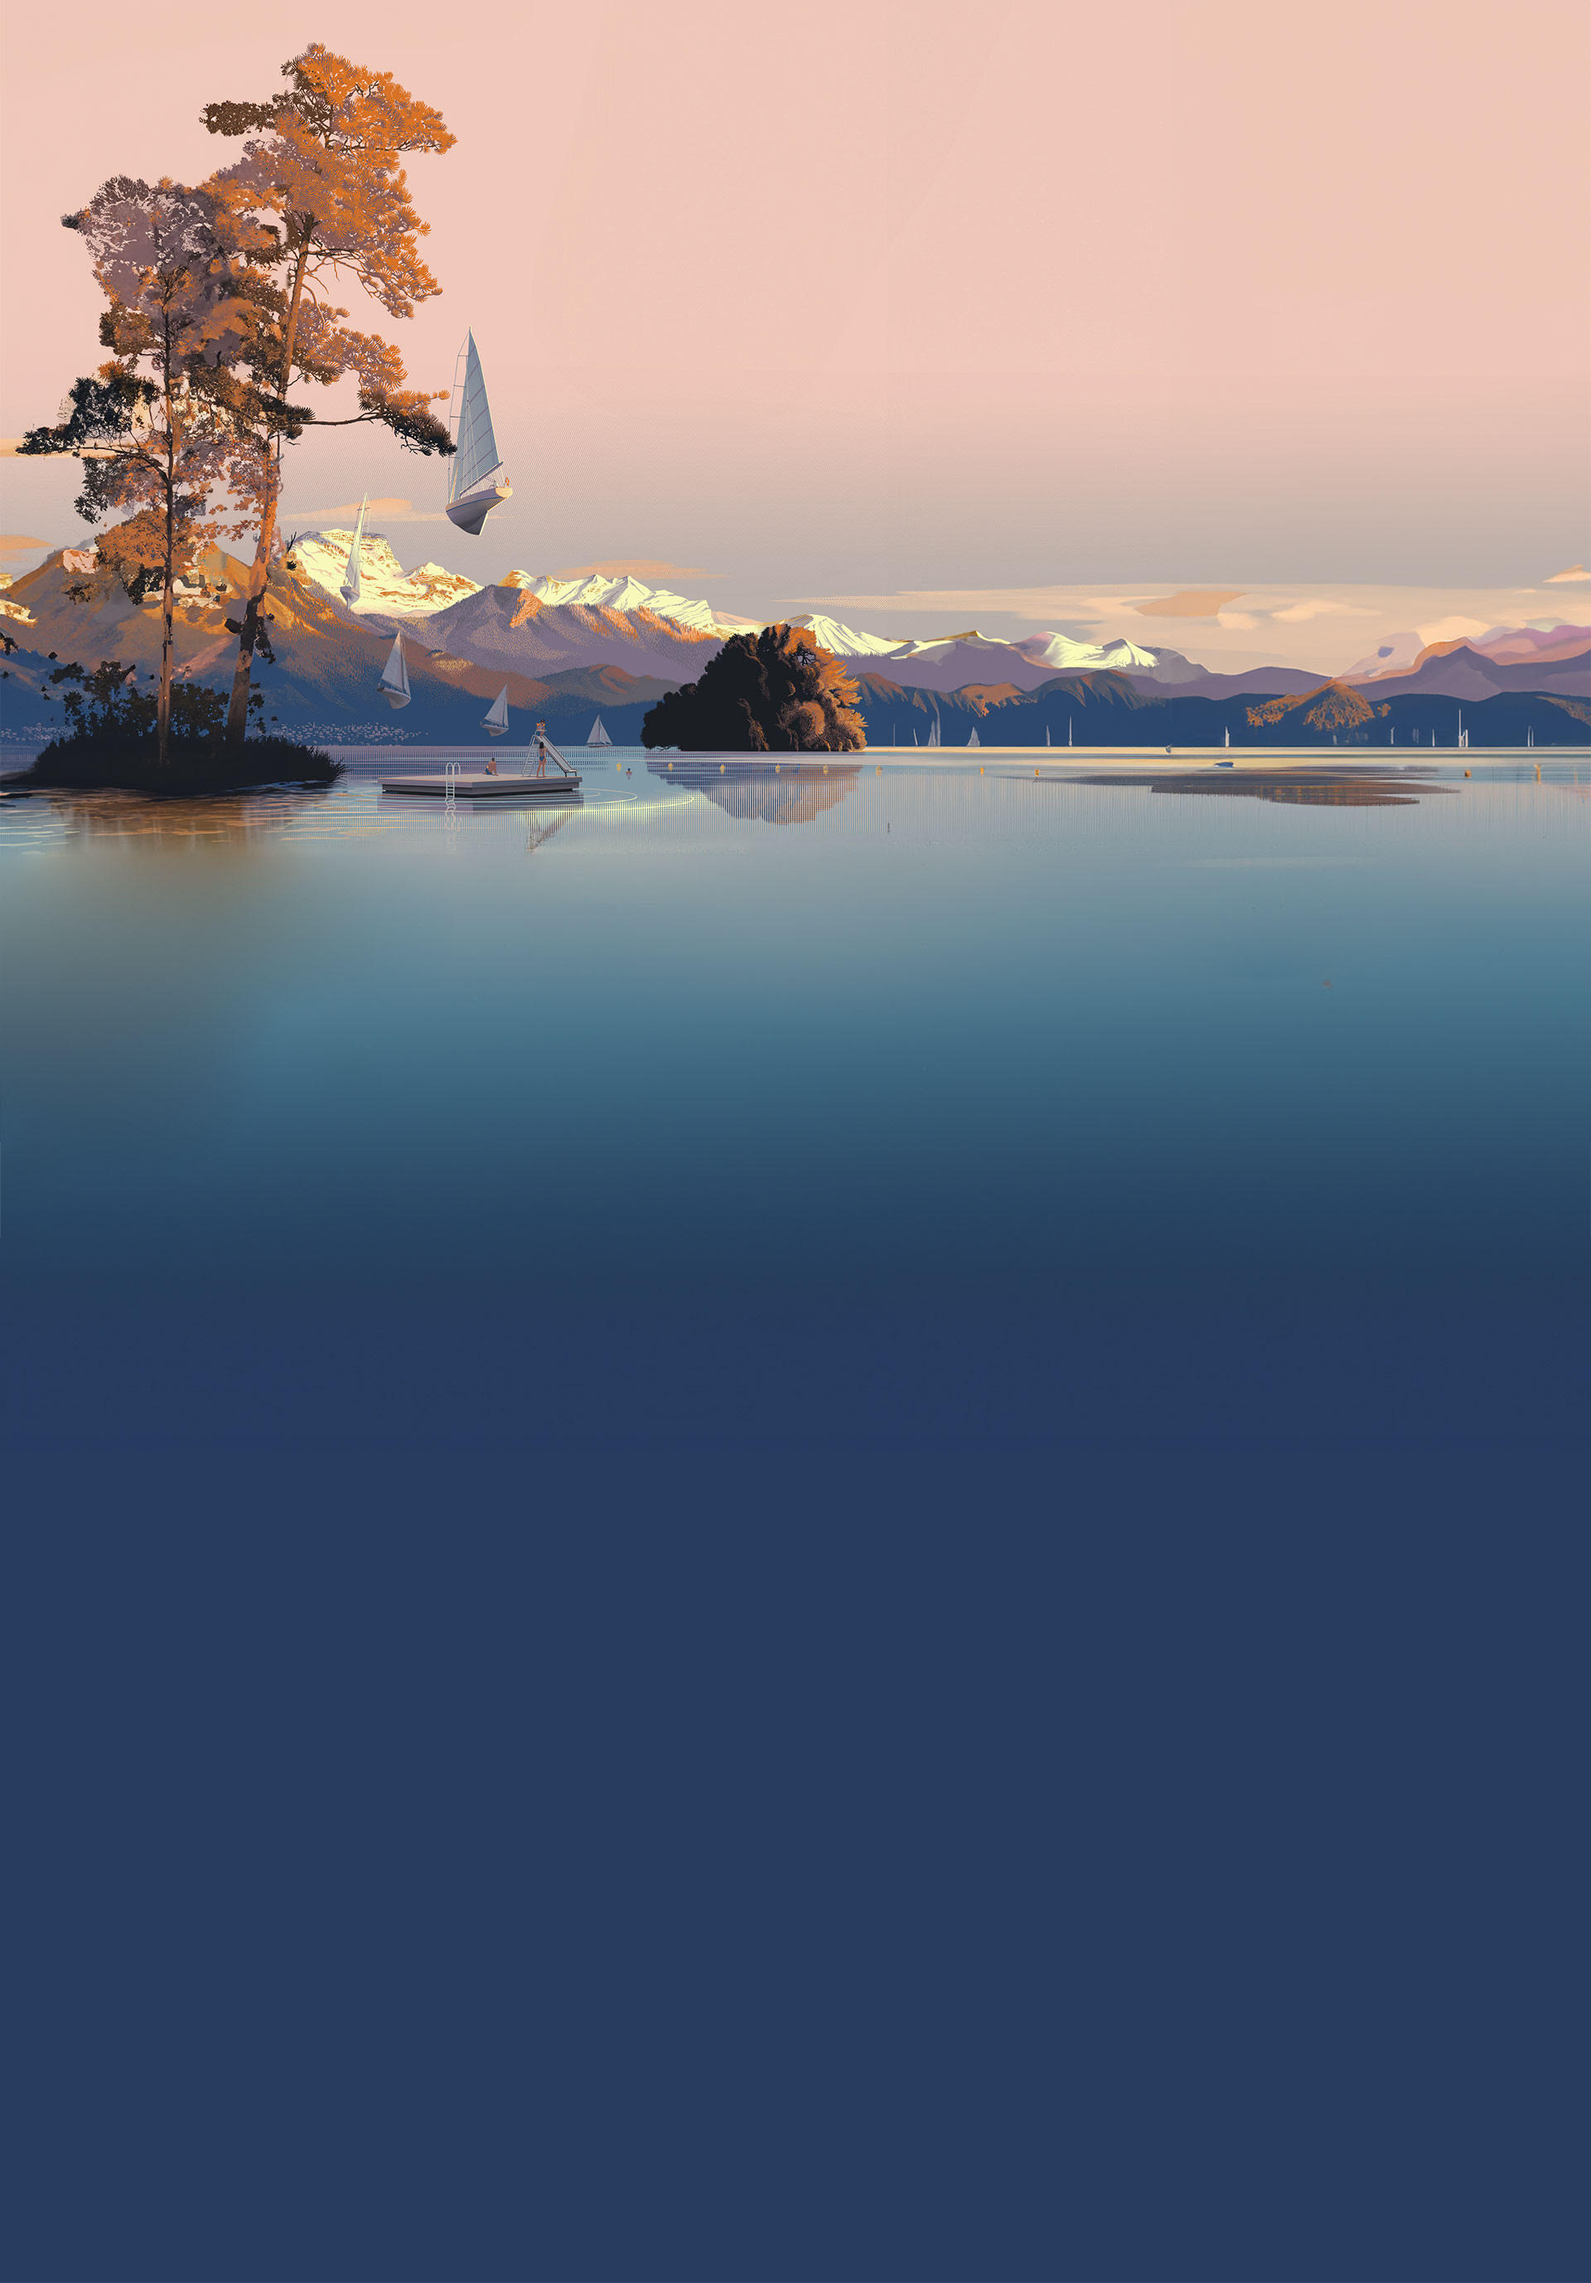
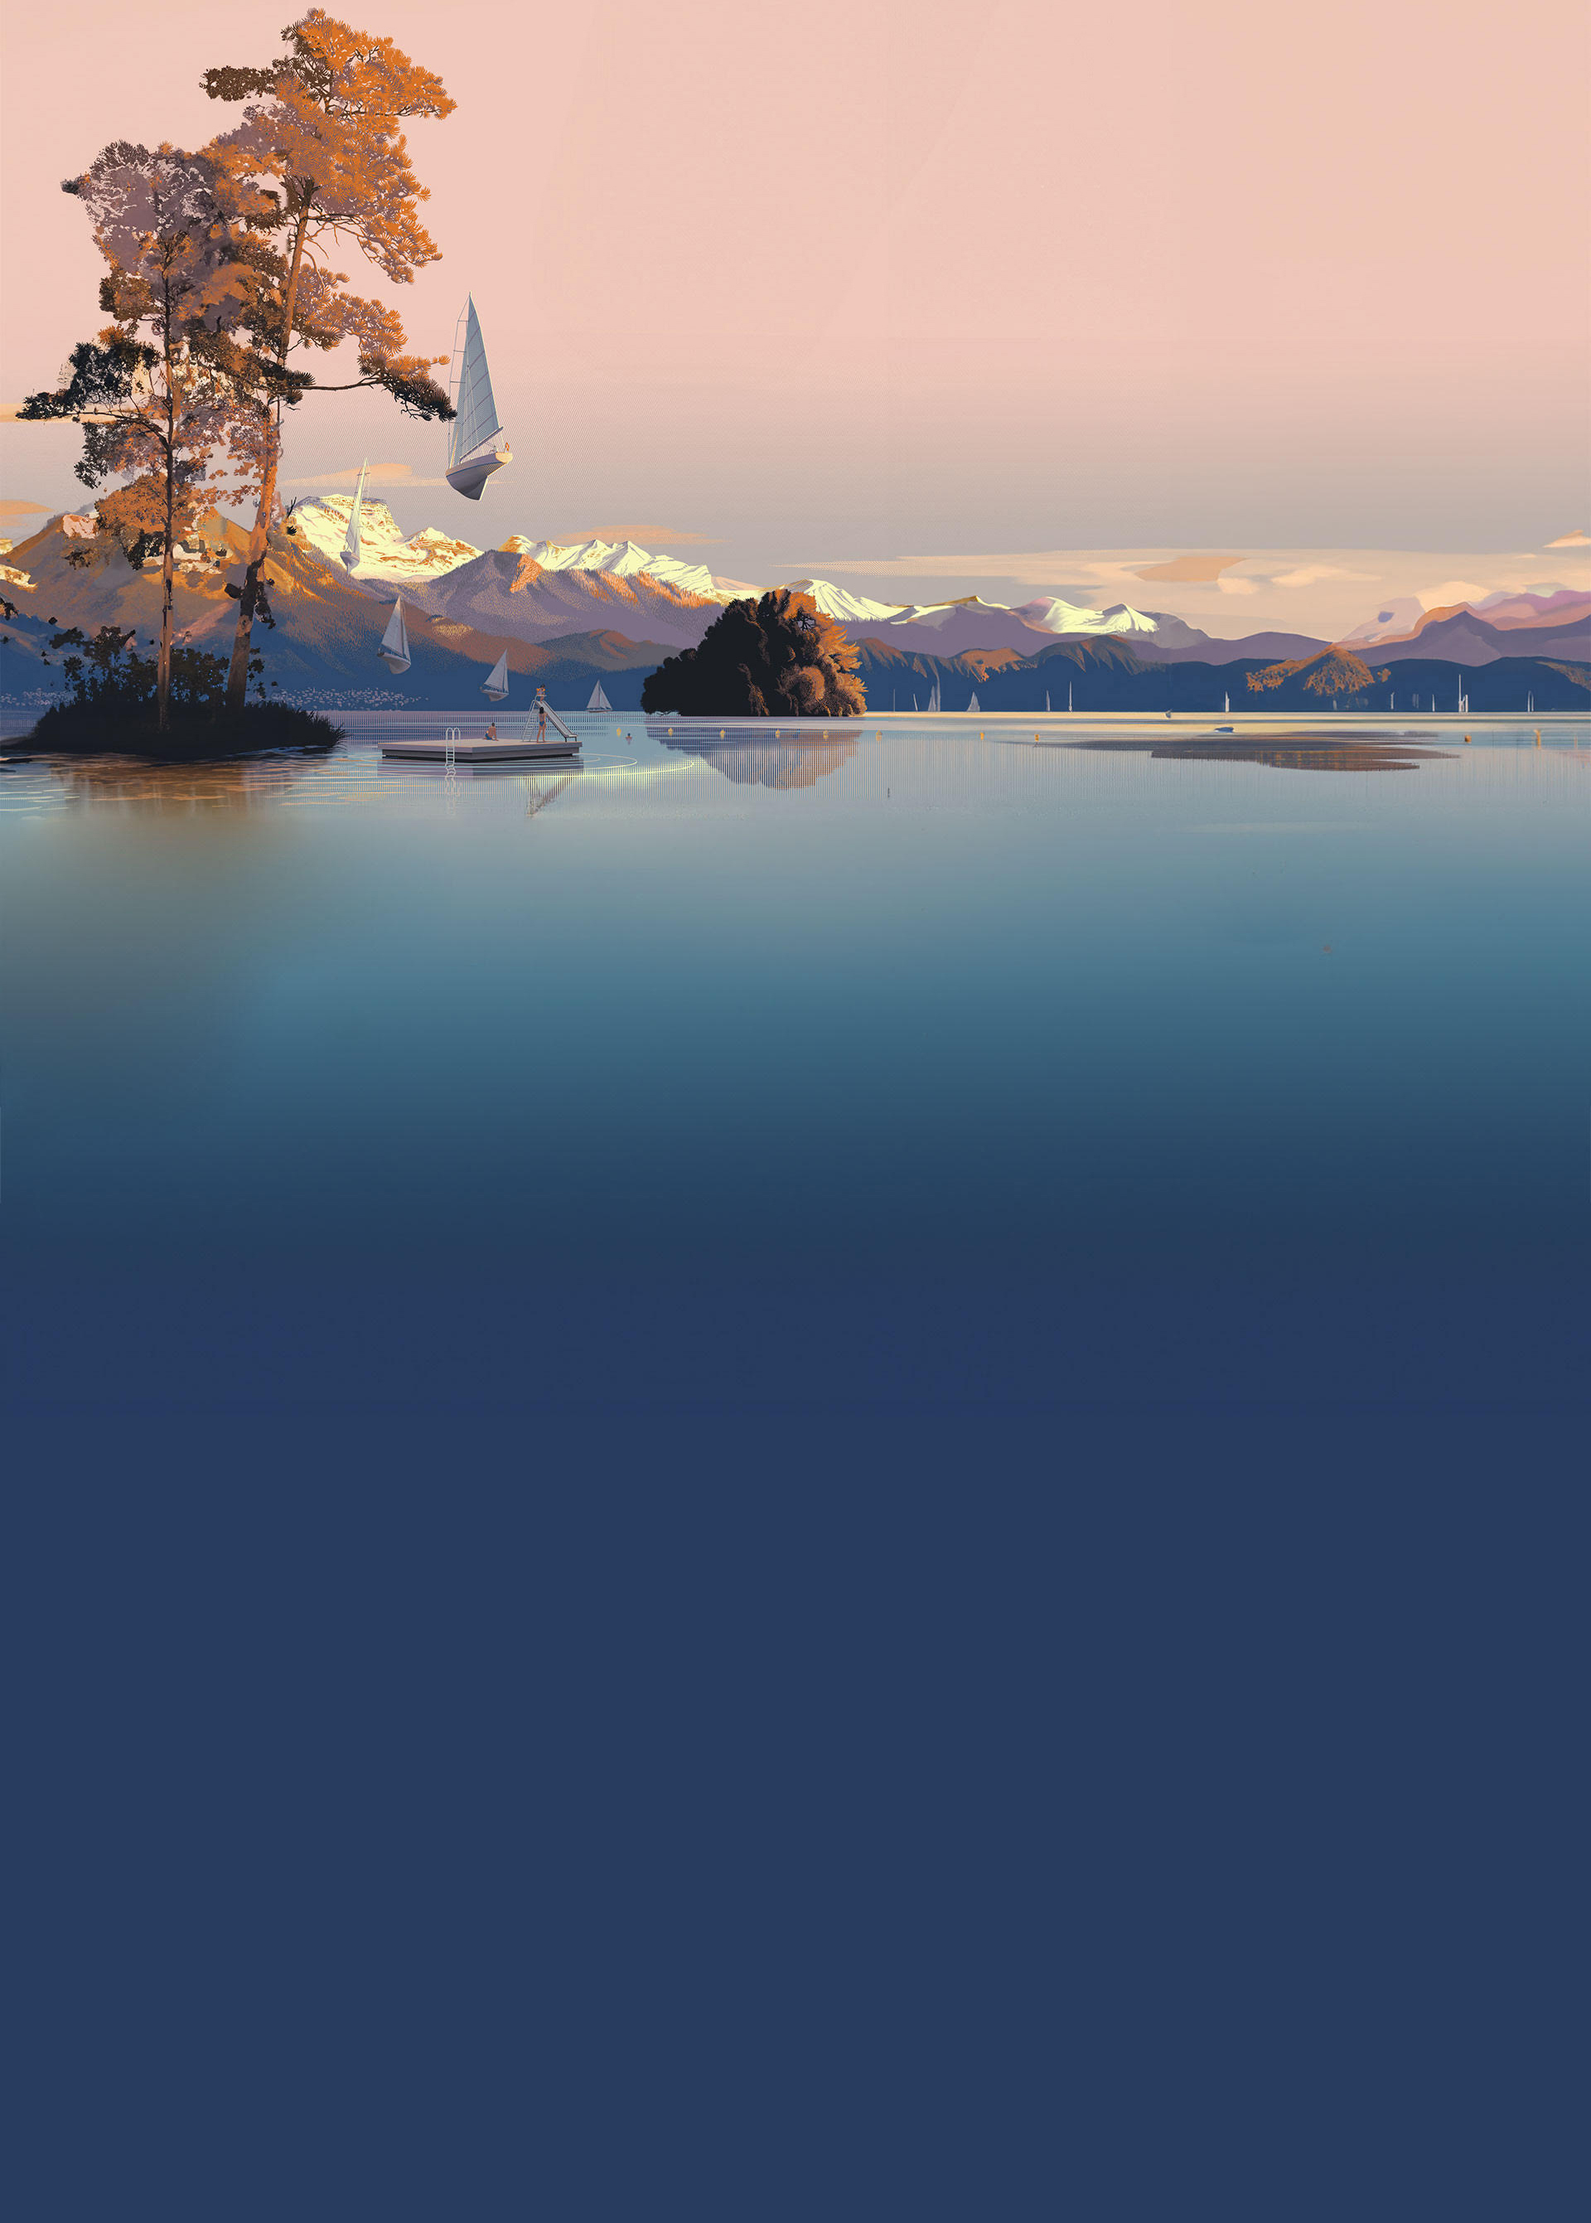
Add better Tabulation and add country flags ✨

Changed region(s): [[0.0, 0.0, 1.0, 0.3714]]

diff --git a/script.js b/script.js
@@ -1,4 +1,16 @@
-// Charger le fichier JSON
+// Sélectionnez le span par son identifiant
+var scrollDownSpan = document.getElementById('scroll-down');
+
+// Ajoutez un gestionnaire d'événements au span
+scrollDownSpan.addEventListener('click', function () {
+    // Sélectionnez la section cible par son identifiant
+    var mainSection = document.getElementById('svg-container');
+
+    // Faites défiler la section dans la vue
+    mainSection.scrollIntoView({ behavior: 'smooth' });
+});
+
+// Chargement du fichier JSON
 fetch('./FilmData.json')
     .then(response => response.json())
     .then(filmdata => {
@@ -77,14 +89,16 @@ fetch('./FilmData.json')
             .attr("x", 905)
             .attr("y", 20);
 
-        // Ajout des barres
+        // Création des barres
         let barres = svg
             .selectAll("rect")
             .data(filmPrime);
 
+        // Affichage et stylisation des barres sur notre graphique
         barres.enter()
             .append("rect")
             .attr("class", "barre")
+            .attr("tabindex", (film, index) => index + 1)
             .attr("x", film => xScale(film.AnnéeNomination))
             .attr("y", yScale(0))
             .attr("width", xScale.bandwidth())
@@ -97,11 +111,8 @@ fetch('./FilmData.json')
         // Création d'un tableau d'objets contenant le nom du pays et la couleur qui lui est attribuée
         const legendData = Object.entries(couleurParPays);
 
-        /// Créez un élément pour la légende
-        const legend = d3.select("#legende");
-
         // Ajout la légende
-        const legendItems = legend
+        const legendItems = d3.select("#legende")
             .selectAll(".legend-item")
             .data(legendData)
             .enter()
@@ -123,14 +134,28 @@ fetch('./FilmData.json')
             .attr("class", "legend-circle")
             .style("background-color", d => d[1]);
 
+        // Ajout d'un encadré affichant les détails du film au survol d'une barre
+        const div = d3
+            .select(".main")
+            .append("div")
+            .attr("class", "hoverMovie")
 
         // Ajout de l'effet de hover pour les barres et la légende
         d3.selectAll(".barre, .legend-item")
             .on("mouseenter", function (e, d) {
+
                 let pays;
 
+                // On vérifie si l'utilisateur passe sa souris sur une barre
                 if (this.classList.contains("barre")) {
+
                     pays = d.Pays;
+
+                    div.transition()
+                        .style("visibility", "visible")
+                    div.html(`<p><span class="hoverDetail">Film primé en ${d.AnnéeNomination}</span><br><span class="hoverDetail">${d.Titre}</span><br><span class="hoverDetail">Pays : ${d.Pays}<br>Note IMDB : ${d.NoteIMDB}</p>`)
+                        .style("left", (e.pageX + 10) + "px")
+                        .style("top", (e.pageY - 50) + "px");
 
                     // Réduit l'opacité de toutes les barres, sauf celle survolée
                     d3.selectAll(".barre")
@@ -159,7 +184,11 @@ fetch('./FilmData.json')
                     .duration(200)
                     .style("opacity", 0.2);
             })
+
+            // On remet l'opacité par défaut pour les textes situés dans la légende et pour toutes les barres si l'utilisateur ne passe plus sa souris sur une barre ou un pays dans la légende
             .on("mouseleave", function () {
+                div.transition()
+                    .style("visibility", "hidden")
                 // Retour à l'opacité d'origine de toutes les barres
                 d3.selectAll(".barre")
                     .transition()
@@ -173,7 +202,11 @@ fetch('./FilmData.json')
                     .style("opacity", 1);
             });
 
-        function seeMoreInformations(e, d) {
+
+        // Fonction permettant d'afficher les informations sur le film primé et les films nominés de l'année selectionné
+        function seeMoreInformations(tabIndex) {
+
+            let d = filmPrime[tabIndex - 1];
 
             document.getElementById("detailMovie").scrollIntoView({
                 behavior: "smooth",
@@ -197,6 +230,7 @@ fetch('./FilmData.json')
                 .filter(d => d.Primé == 1)
                 .append("h2")
                 .attr("class", "prime")
+                .attr("tabIndex", tabIndex)
                 .html(d => `Crystal du long métrage année ${d.AnnéeNomination}`);
 
             d3.select(".bande-annonce")
@@ -206,6 +240,7 @@ fetch('./FilmData.json')
                 .filter(d => d.Primé == 1)
                 .append("div")
                 .attr("class", "prime")
+                .attr("tabindex", tabIndex)
                 .html(d => `<iframe src="${d.BandeAnnonce}" width="640" height="360" allowfullscreen="true" sandbox="allow-scripts allow-same-origin allow-popups allow-presentation"></iframe>`);
 
             d3.select(".film-container")
@@ -217,7 +252,7 @@ fetch('./FilmData.json')
                 .attr("class", "prime")
                 .style("display", "flex")
                 .style("flex-direction", "row")
-                .html(d => `<div><h3>Film primé</h3><br><p><span>Titre : ${d.Titre}</span><br><span>Réalisateur(s) : ${d.Réalisateurs}</span><br><span>Technique(s) de production : ${d.Techniques}</span><br><span>Note IMDB : ${d.NoteIMDB}</span><br><span>Source : <a href="https://www.imdb.com/title/${d.IdIMDB}/" target="_blank" title="Page IMDB du film ${d.Titre}">https://www.imdb.com/title/${d.IdIMDB}/</a></span></p></div><div><p><span>${d.Pays}</span><img src="./images/" alt="" srcset=""></p></div>`);
+                .html(d => `<div><h3>Film primé</h3><br><p><span>Titre : ${d.Titre}</span><br><span>Réalisateur(s) : ${d.Réalisateurs}</span><br><span>Technique(s) de production : ${d.Techniques}</span><br><span>Note IMDB : ${d.NoteIMDB}</span><br><span>Source : <a href="https://www.imdb.com/title/${d.IdIMDB}/" target="_blank"  tabindex="${tabIndex}"">https://www.imdb.com/title/${d.IdIMDB}/</a></span></p></div><div><p>${d.Pays}</p><img src="./images/flags/${d.Pays}.webp" witdh="80px" alt="" srcset=""></p></div>`);
 
             d3.select(".detailNomines")
                 .selectAll(".o")
@@ -226,13 +261,21 @@ fetch('./FilmData.json')
                 .filter(d => d.Primé == 0)
                 .append("div")
                 .attr("class", "nominés")
-                .style("display", "flex")
-                .style("flex-direction", "column")
-                .html(d => `<p><span>Titre : ${d.Titre}</span><br><span>Pays : ${d.Pays}</span><br><span class="noteIMDB">Note IMDB : ${d.NoteIMDB}</span></p>`);
+
+                .html(d => `<p><span>Titre : ${d.Titre}</span><br><span>Pays : ${d.Pays}</span><br><span>Note IMDB : ${d.NoteIMDB}</span><br><span><a href="https://www.imdb.com/title/${d.IdIMDB}/" target="_blank"">Page IMDB du film ${d.Titre}</a></span></p>`);
         }
-        svg.selectAll(".barre").on("click", seeMoreInformations);
+        svg.selectAll(".barre").on("click", function () {
+            // On récupère l'index de la barre focuser
+            let tabIndex = this.tabIndex;
+            seeMoreInformations(tabIndex);
+        });
         // Ajout d'event focus pour que les éléments détaillés puissent être accessibles via la navigation au clavier
-        svg.selectAll(".barre").on("focus", seeMoreInformations);
+        svg.selectAll(".barre").on("focus", function () {
+            // On récupère l'index de la barre focuser
+            let tabIndex = this.tabIndex;
+            seeMoreInformations(tabIndex);
+        })
+
     })
 
     .catch(error => console.error('Erreur lors du chargement du fichier JSON :', error));

diff --git a/style.css b/style.css
@@ -3,11 +3,36 @@
     src: url(./Fonts/Teko-VariableFont_wght.ttf) format('truetype');
 }
 
+/* Changement du style de la scrollbar */
+
+/* taille de la scrollbar */
+::-webkit-scrollbar {
+    width: 10px;
+}
+
+/* couleur de fond secondaire de la scrollbar */
+::-webkit-scrollbar-track {
+    background: #2c4670;
+}
+
+/* couleur de fond primaire de la scrollbar */
+::-webkit-scrollbar-thumb {
+    background: #e4e1e1;
+    border-radius: 10px;
+}
+
+/* Hcouleur de fond primaire de la scrollbar au hover */
+::-webkit-scrollbar-thumb:hover {
+    background: #ffffff;
+}
+
+
 a {
-    color: #D5EFFF;
+    color: #b2d3e7;
 }
 
 body {
+    border: 0;
     margin: 0;
     padding: 0;
     color: white;
@@ -19,12 +44,12 @@ body {
     width: 100%;
     background-image: url('./images/backgroundCompress.jpg');
     background-repeat: no-repeat;
-    background-size: cover;
 }
 
 header {
     height: 100vh;
 }
+
 
 .logo-container {
     position: relative;
@@ -40,9 +65,46 @@ header {
     clip-path: polygon(0 0, 100% 0, 100% 100%, 0% 100%);
 }
 
+.scroll-down-arrow {
+    position: relative;
+    width: fit-content;
+    cursor: pointer;
+    top: 50%;
+    left: 50%;
+    transform: translateX(-50%);
+    animation: arrowBounce 2s infinite ease-in-out;
+}
+
+.scroll-down-arrow span {
+    display: block;
+    width: 36px;
+    height: 36px;
+    border-left: 4px solid #fff;
+    border-bottom: 4px solid #fff;
+    transform: rotate(-45deg);
+    margin: 0 8px;
+    box-sizing: border-box;
+    transition: transform 0.2s ease-in-out;
+}
+
+@keyframes arrowBounce {
+    0%, 20%, 50%, 80%, 100% {
+        transform: translateY(0);
+    }
+
+    40% {
+        transform: translateY(10px);
+    }
+
+    60% {
+        transform: translateY(5px);
+    }
+}
+
 .main {
     align-content: center;
-    padding-top: 15%;
+    padding-top: 12%;
+    padding-bottom: 12%;
 }
 
 footer {
@@ -106,6 +168,22 @@ svg {
     margin-right: 5px;
 }
 
+.hoverMovie {
+    visibility: hidden;
+    background-color: #263C5F;
+    position: absolute;
+    padding: 15px;
+    border-radius: 15px;
+}
+
+.hoverMovie p span {
+    margin-bottom: 100px;
+}
+
+.hoverMovie p :first-child {
+    font-weight: 800;
+}
+
 #detailMovie {
     visibility: hidden;
     display: flex;
@@ -126,6 +204,8 @@ svg {
     flex-wrap: wrap;
     gap: 3rem;
     flex-direction: row;
+    justify-content: center;
+
 }
 
 .film-prime * {
@@ -161,4 +241,8 @@ svg {
 
 .detailNomines p {
     font-size: 1.4rem;
+}
+
+.nominés p :first-child {
+    font-weight: 800;
 }

diff --git a/index.html b/index.html
@@ -6,7 +6,12 @@
     <meta name="viewport" content="width=device-width, initial-scale=1.0">
     <title>Crystal'viz - Annecy Festival</title>
     <script src="d3.js" defer></script>
-    <link rel="shortcut icon" href="./images/favicon.ico" type="image/x-icon">
+    <link rel="apple-touch-icon" sizes="180x180" href="./images/favIcons/apple-touch-icon.png">
+    <link rel="icon" type="image/png" sizes="32x32" href="./images/favIcons/favicon-32x32.png">
+    <link rel="icon" type="image/png" sizes="16x16" href="./images/favIcons/favicon-16x16.png">
+    <link rel="mask-icon" href="./images/favIcons/safari-pinned-tab.svg" color="#5bbad5">
+    <meta name="msapplication-TileColor" content="#da532c">
+    <meta name="theme-color" content="#ffffff">
     <link href="style.css" rel="stylesheet">
 </head>
 
@@ -17,12 +22,15 @@
             <div class="logo-container">
                 <img src="images/Logo.svg" alt="">
             </div>
+            <div class="scroll-down-arrow">
+                <span id="scroll-down"></span>
+            </div>
         </header>
 
         <section class="main">
-
-            <div class="svg-container">
-                <h2>Films qui ont reçu le cristal du long métrage au festival d'Annecy au fur et à mesure des années
+            <div class="svg-container" id="svg-container">
+                <h2>Films d'animation qui ont reçu le cristal du long-métrage au festival d'Annecy au fur et à mesure
+                    des années
                 </h2>
                 <div id="legende"></div>
                 <svg width="90vw" height="calc(90vw * 520 / 1000)" viewBox="-50 -490 1000 520">
@@ -55,6 +63,9 @@
 
 
     <footer>
+        <div class="div-footer">
+            <img src="./images/CrystalViz.svg" alt="" srcset="">
+        </div>
         <div class="div-footer">
             <h3>Raison Sociale de l’Hébergeur</h3>
             <p>
